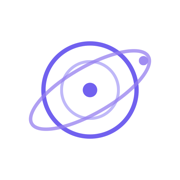
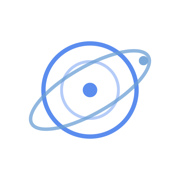
feat: enhance ERP feature documentation and UI themes
- Updated ERP_FEATURE_GAP.md to reflect improvements in Cosmos ERP capabilities, including landed cost and demand planning features.
- Enhanced PLATFORM_FEATURES.md with new theme details and added a theme switcher for user preference.
- Improved UI consistency by updating font usage across various components and refining color variables.
- Updated README.md to include new theme information and database setup instructions for local development.

Changed region(s): [[0.1389, 0.2222, 0.8611, 0.7778], [0.4444, 0.4444, 0.5556, 0.5556]]

diff --git a/apps/web/lib/server/native-router.ts b/apps/web/lib/server/native-router.ts
@@ -370,11 +370,11 @@ async function routeOrders(method: string, seg: string[], req: Request): Promise
     const order = await orders.createOrder(session.tenantId, body, buyerOpts)
     return Response.json(order, { status: 201 })
   }
-  if (seg.length === 2 && method === 'GET') {
-    return Response.json(await orders.findOrderById(session.tenantId, seg[1], buyerOpts))
-  }
   if (seg.length === 2 && seg[1] === 'backorders' && method === 'GET') {
     return Response.json(await backorders.listOpenBackorders(session.tenantId, +(url.searchParams.get('limit') ?? 50)))
+  }
+  if (seg.length === 2 && method === 'GET') {
+    return Response.json(await orders.findOrderById(session.tenantId, seg[1], buyerOpts))
   }
   if (seg.length === 1 && method === 'GET') {
     return Response.json(

diff --git a/apps/client/src/pages/m/login/page.tsx b/apps/client/src/pages/m/login/page.tsx
@@ -53,7 +53,7 @@ export default function MobileLoginPage() {
       <main style={{ flex: 1, display: 'flex', alignItems: 'center', justifyContent: 'center', padding: 16 }}>
         <form onSubmit={submit} className="cosmos-mobile-card w-full max-w-sm space-y-4">
           <div>
-            <h1 style={{ fontFamily: 'var(--font-syne)', fontSize: '1.25rem', margin: 0 }}>Sign in</h1>
+            <h1 style={{ fontFamily: 'var(--font-display)', fontSize: '1.25rem', margin: 0 }}>Sign in</h1>
             <p style={{ marginTop: 8, fontSize: 13, opacity: 0.7 }}>Warehouse, delivery, and field sales</p>
           </div>
           <input className="cosmos-input" placeholder="Email" type="email" value={email} onChange={(e) => setEmail(e.target.value)} required />

diff --git a/apps/client/src/pages/home/page.tsx b/apps/client/src/pages/home/page.tsx
@@ -69,7 +69,7 @@ const WORKSPACES = [
     role: 'Pickers & receivers',
     desc: 'Mobile-friendly PWA for pick tasks, bin locations, receiving, and wave picking — works on the floor.',
     features: ['Offline-friendly', 'Barcode scans', 'Putaway tasks'],
-    accent: 'var(--palette-wisteria)',
+    accent: 'var(--c-success)',
   },
   {
     href: '/m/delivery',
@@ -87,7 +87,7 @@ const WORKSPACES = [
     role: 'Field reps',
     desc: 'Leads, customer lookup, and activity logging while visiting accounts.',
     features: ['Lead pipeline', 'Visit notes', 'Quick customer search'],
-    accent: 'var(--palette-powder-petal)',
+    accent: 'var(--c-warning)',
   },
 ] as const
 

diff --git a/apps/client/src/pages/m/warehouse/page.tsx b/apps/client/src/pages/m/warehouse/page.tsx
@@ -60,7 +60,7 @@ export default function WarehouseMobilePage() {
     <div>
       <OfflineBanner />
       <div style={{ display: 'flex', justifyContent: 'space-between', alignItems: 'center', marginBottom: 12 }}>
-        <h1 style={{ margin: 0, fontSize: '1.25rem', fontFamily: 'var(--font-syne)' }}>Warehouse</h1>
+        <h1 style={{ margin: 0, fontSize: '1.25rem', fontFamily: 'var(--font-display)' }}>Warehouse</h1>
         <button type="button" className="btn-ghost" onClick={() => void load()} disabled={loading}>
           Refresh
         </button>

diff --git a/apps/client/src/pages/m/warehouse/waves/[id]/page.tsx b/apps/client/src/pages/m/warehouse/waves/[id]/page.tsx
@@ -86,7 +86,7 @@ export default function WarehouseWaveDetailPage() {
       {err ? <p style={{ color: 'var(--c-danger)', fontSize: 13, marginTop: 12 }}>{err}</p> : null}
       {wave ? (
         <div style={{ marginTop: 16 }}>
-          <h1 style={{ margin: '0 0 8px', fontSize: '1.25rem', fontFamily: 'var(--font-syne)' }}>
+          <h1 style={{ margin: '0 0 8px', fontSize: '1.25rem', fontFamily: 'var(--font-display)' }}>
             Wave #{wave.id.slice(-8)}
           </h1>
           <p style={{ margin: 0, fontSize: 13, opacity: 0.75 }}>

diff --git a/apps/client/src/pages/m/warehouse/receiving/page.tsx b/apps/client/src/pages/m/warehouse/receiving/page.tsx
@@ -51,7 +51,7 @@ export default function ReceivingMobilePage() {
       <Link to="/m/warehouse" className="cosmos-shop-link-accent" style={{ fontSize: 13 }}>
         ← Tasks
       </Link>
-      <h1 style={{ fontFamily: 'var(--font-syne)', fontSize: '1.25rem' }}>Receiving</h1>
+      <h1 style={{ fontFamily: 'var(--font-display)', fontSize: '1.25rem' }}>Receiving</h1>
       {!sessionId ? (
         <>
           <label style={{ display: 'block', fontSize: 13, marginTop: 12 }}>PO ID (optional)</label>

diff --git a/apps/client/src/pages/m/delivery/route/[id]/page.tsx b/apps/client/src/pages/m/delivery/route/[id]/page.tsx
@@ -67,7 +67,7 @@ export default function DeliveryRoutePage() {
       <Link to="/m/delivery" className="cosmos-shop-link-accent" style={{ fontSize: 13 }}>
         ← Routes
       </Link>
-      <h1 style={{ fontFamily: 'var(--font-syne)' }}>Route {id?.slice(-8)}</h1>
+      <h1 style={{ fontFamily: 'var(--font-display)' }}>Route {id?.slice(-8)}</h1>
       {err && <p style={{ color: 'var(--c-danger)' }}>{err}</p>}
       <textarea
         className="cosmos-input"

diff --git a/apps/client/src/pages/m/sales/page.tsx b/apps/client/src/pages/m/sales/page.tsx
@@ -83,7 +83,7 @@ export default function SalesMobilePage() {
   return (
     <div>
       <OfflineBanner />
-      <h1 style={{ fontFamily: 'var(--font-syne)', fontSize: '1.25rem' }}>Field sales</h1>
+      <h1 style={{ fontFamily: 'var(--font-display)', fontSize: '1.25rem' }}>Field sales</h1>
       <div style={{ display: 'flex', gap: 8, marginBottom: 12, flexWrap: 'wrap' }}>
         {(['leads', 'customers', 'activities'] as const).map((t) => (
           <button

diff --git a/apps/client/src/pages/m/warehouse/task/[id]/page.tsx b/apps/client/src/pages/m/warehouse/task/[id]/page.tsx
@@ -87,7 +87,7 @@ export default function WarehouseTaskPage() {
       <Link to="/m/warehouse" className="cosmos-shop-link-accent" style={{ fontSize: 13 }}>
         ← Tasks
       </Link>
-      <h1 style={{ fontFamily: 'var(--font-syne)' }}>Task {id?.slice(-8)}</h1>
+      <h1 style={{ fontFamily: 'var(--font-display)' }}>Task {id?.slice(-8)}</h1>
       {err && <p style={{ color: 'var(--c-danger)', fontSize: 13 }}>{err}</p>}
       {task && (
         <>

diff --git a/apps/client/src/pages/m/delivery/page.tsx b/apps/client/src/pages/m/delivery/page.tsx
@@ -49,7 +49,7 @@ export default function DeliveryMobilePage() {
   return (
     <div>
       <OfflineBanner />
-      <h1 style={{ fontFamily: 'var(--font-syne)', fontSize: '1.25rem' }}>Active routes</h1>
+      <h1 style={{ fontFamily: 'var(--font-display)', fontSize: '1.25rem' }}>Active routes</h1>
       <button type="button" className="btn-ghost" onClick={() => void load()} style={{ marginBottom: 12 }}>
         Refresh
       </button>

diff --git a/apps/client/src/components/cosmos/bento-cards.tsx b/apps/client/src/components/cosmos/bento-cards.tsx
@@ -149,7 +149,7 @@ export function BentoHeroCard({
 
 export function BentoAvatarStack({ labels }: { labels: string[] }) {
   const shown = labels.slice(0, 4)
-  const fills = ['#1a1a1d', '#222226', '#2a2a2e', '#333338']
+  const fills = ['var(--c-surface-2)', 'var(--c-surface-3)', 'var(--c-primary-dim)', 'var(--c-accent-dim)']
   return (
     <div className="flex items-center gap-3 mt-4">
       <div className="flex -space-x-2">

diff --git a/apps/client/src/components/checkout-card-capture.tsx b/apps/client/src/components/checkout-card-capture.tsx
@@ -6,7 +6,7 @@ const cardStyle = {
     base: {
       color: '#E2E8F0',
       fontSize: '14px',
-      fontFamily: 'DM Sans, system-ui, sans-serif',
+      fontFamily: 'Inter, system-ui, sans-serif',
       '::placeholder': { color: '#64748B' },
       iconColor: '#94A3B8',
     },
